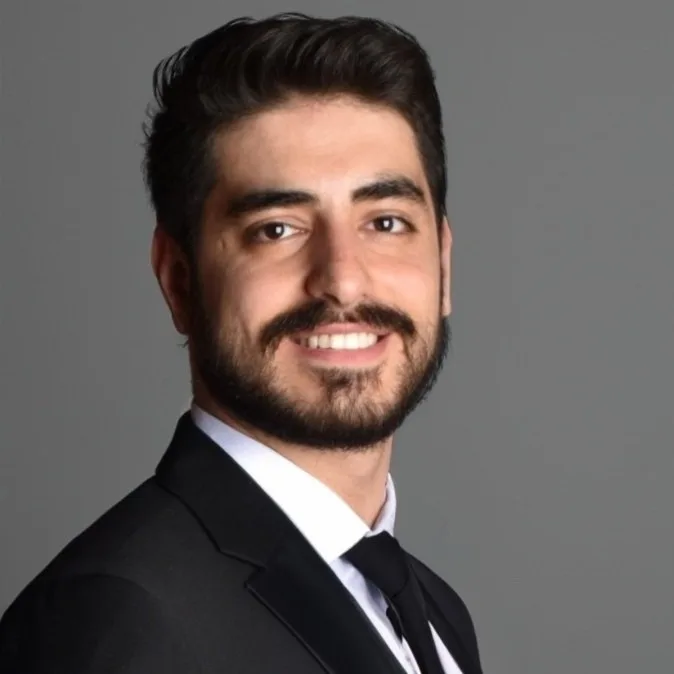
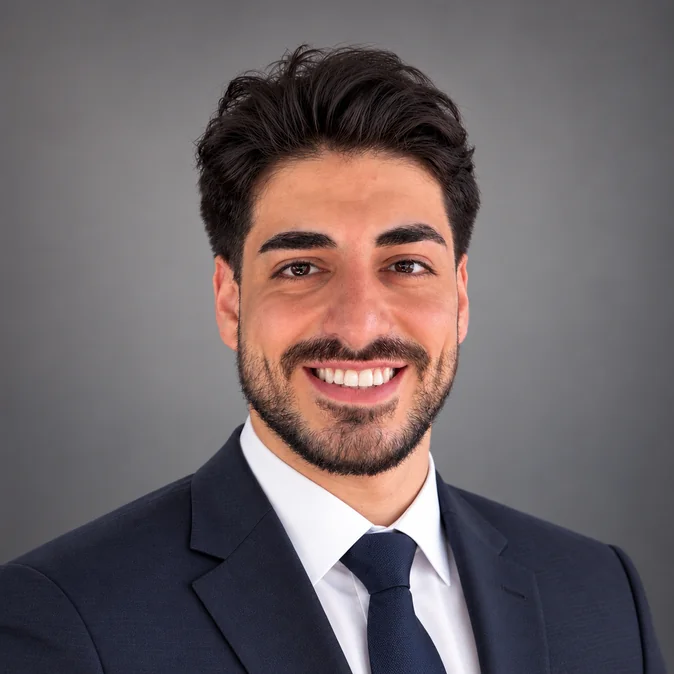
content: update profile photo
Replace images/profile-pic.webp with the new headshot. The source PNG is
1254x1254; it is resized to 674x674 (matching the file it replaces, and
still comfortably above the 250px it renders at) and encoded as WebP at
quality 85, 31 KB.

The source is square, so no crop was needed and the circular mask does
not distort the face.

Bump the cache-busting version to ?v=3 on every reference. Only the
visible <img> carried a version before; og:image, twitter:image and the
Person schema image pointed at the bare filename, so returning visitors
and social platforms that cache by URL would have kept serving the old
headshot. blog.html shares the same og:image and is updated to match.

Verified in headless Chromium: the image decodes at 674x674, renders
250x250 with the circular mask and object-fit: cover, all four
references carry ?v=3, and it displays correctly in dark and light
themes and at 390px with no layout overflow.

Claude-Session: https://claude.ai/code/session_01TpVkqgviL1VRYc3raUNad3

diff --git a/index.html b/index.html
@@ -45,7 +45,7 @@
   <!-- Open Graph / Social Media Meta Tags -->
   <meta property="og:title" content="Mehrdad Khani | Bioprocess &amp; Downstream Specialist">
   <meta property="og:description" content="Portfolio of Mehrdad Khani, Biotechnologist with 6+ years of pharmaceutical experience in GMP environments.">
-  <meta property="og:image" content="https://mehrdadkhani.com/images/profile-pic.webp">
+  <meta property="og:image" content="https://mehrdadkhani.com/images/profile-pic.webp?v=3">
   <meta property="og:url" content="https://mehrdadkhani.com">
   <meta property="og:type" content="website">
 
@@ -53,7 +53,7 @@
   <meta name="twitter:card" content="summary_large_image">
   <meta name="twitter:title" content="Mehrdad Khani | Bioprocess &amp; Downstream Specialist">
   <meta name="twitter:description" content="Portfolio of Mehrdad Khani, Biotechnologist with 6+ years of pharmaceutical experience in GMP environments.">
-  <meta name="twitter:image" content="https://mehrdadkhani.com/images/profile-pic.webp">
+  <meta name="twitter:image" content="https://mehrdadkhani.com/images/profile-pic.webp?v=3">
 
   <link rel="preconnect" href="https://fonts.googleapis.com">
   <link rel="preconnect" href="https://fonts.gstatic.com" crossorigin>
@@ -73,7 +73,7 @@
     "jobTitle": "Biotechnologist & Downstream Processing Specialist",
     "description": "Bioprocess Development Technician and Downstream Specialist with 6+ years of GMP biomanufacturing experience in Canada and Iran.",
     "url": "https://mehrdadkhani.com",
-    "image": "https://mehrdadkhani.com/images/profile-pic.webp",
+    "image": "https://mehrdadkhani.com/images/profile-pic.webp?v=3",
     "sameAs": [
       "https://linkedin.com/in/Mehrdad-Khani"
     ],
@@ -303,7 +303,7 @@
     <section id="about" class="section">
       <div class="about-container glass-card scroll-reveal">
         <div class="about-image">
-          <img src="images/profile-pic.webp?v=2" loading="lazy" decoding="async" alt="Mehrdad Khani" class="profile-pic">
+          <img src="images/profile-pic.webp?v=3" loading="lazy" decoding="async" alt="Mehrdad Khani" class="profile-pic">
         </div>
         <div class="about-text">
           <h2 class="section-title" style="text-align: left;">Professional Summary</h2>

diff --git a/blog.html b/blog.html
@@ -48,7 +48,7 @@
   <!-- Open Graph / Social Media Meta Tags -->
   <meta property="og:title" content="Blog | Mehrdad Khani">
   <meta property="og:description" content="Articles and insights on Biotechnology, Purification, and Downstream Processing by Mehrdad Khani.">
-  <meta property="og:image" content="https://mehrdadkhani.com/images/profile-pic.webp">
+  <meta property="og:image" content="https://mehrdadkhani.com/images/profile-pic.webp?v=3">
   <meta property="og:url" content="https://mehrdadkhani.com/blog.html">
   <meta property="og:type" content="website">
   <meta property="og:site_name" content="Mehrdad Khani">
@@ -57,7 +57,7 @@
   <meta name="twitter:card" content="summary_large_image">
   <meta name="twitter:title" content="Blog | Mehrdad Khani">
   <meta name="twitter:description" content="Articles and insights on Biotechnology, Purification, and Downstream Processing by Mehrdad Khani.">
-  <meta name="twitter:image" content="https://mehrdadkhani.com/images/profile-pic.webp">
+  <meta name="twitter:image" content="https://mehrdadkhani.com/images/profile-pic.webp?v=3">
   <link rel="stylesheet" href="styles.css">
   <!-- JSON-LD Structured Data -->
   <script type="application/ld+json">
